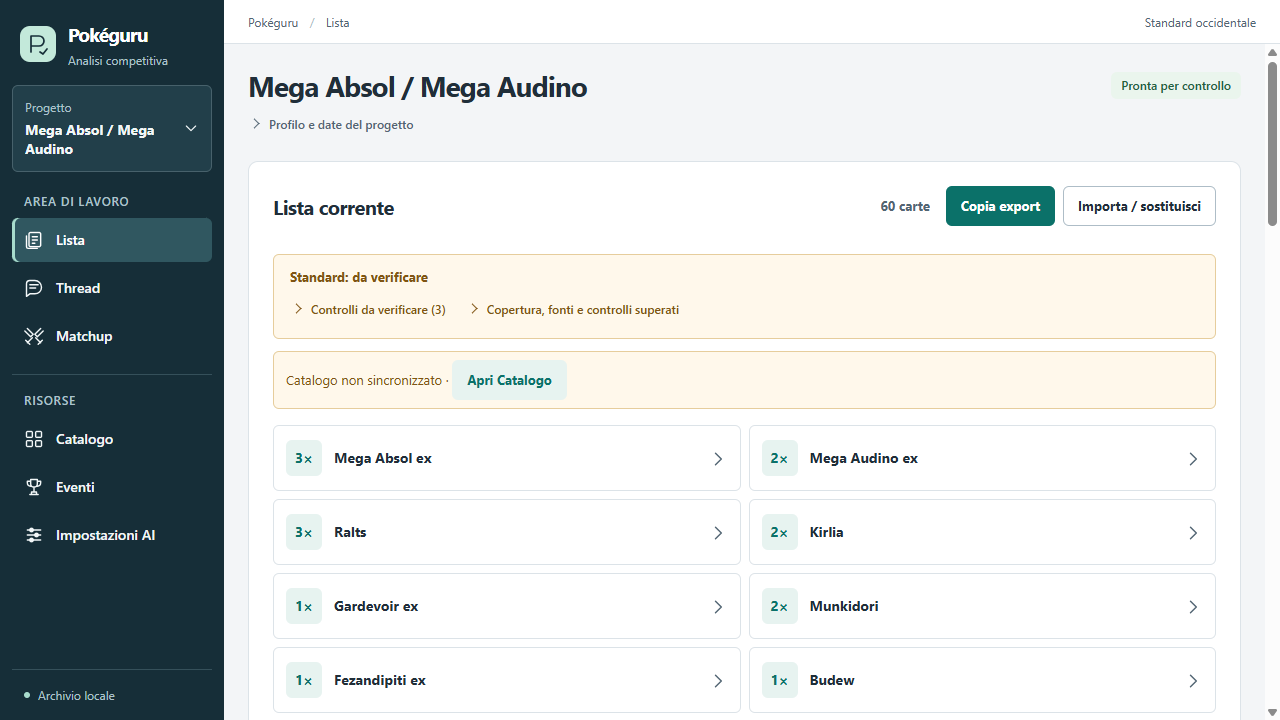
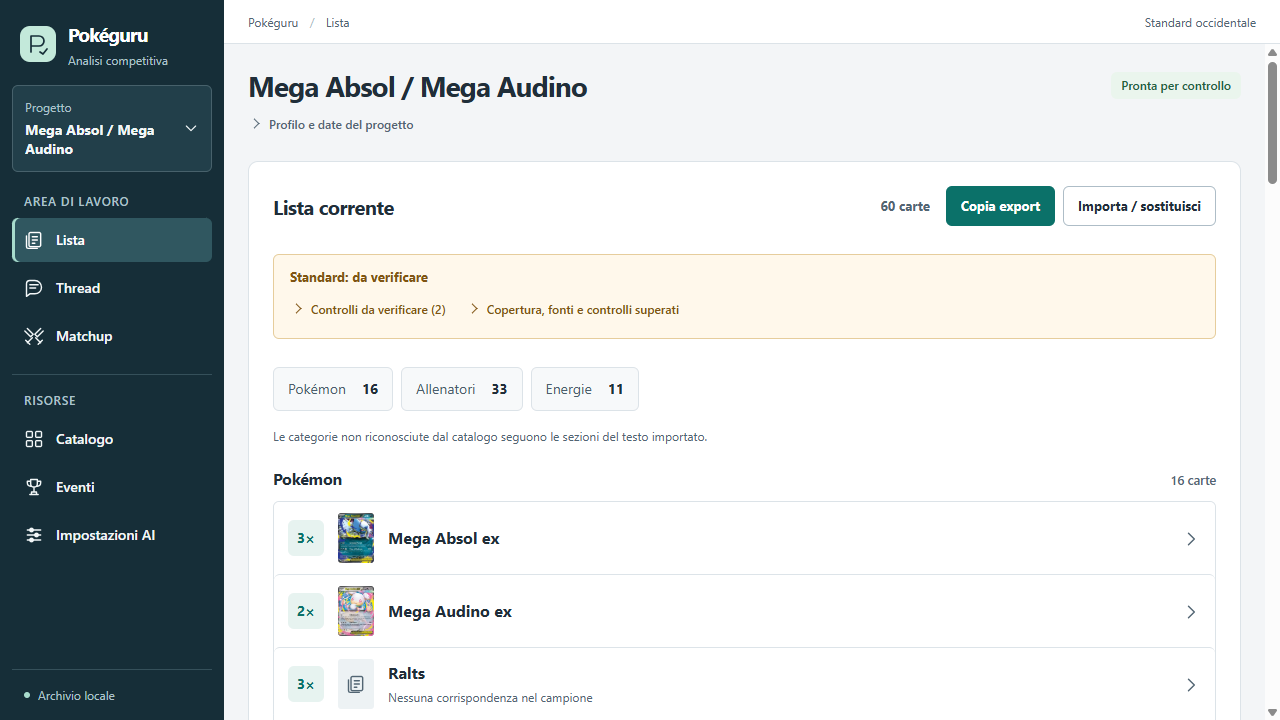
feat(ui): group deck rows by category with thumbnails

diff --git a/src/renderer/src/DeckList.tsx b/src/renderer/src/DeckList.tsx
@@ -11,6 +11,8 @@ import { evaluateStandardDeck } from '../../shared/standard-deck'
 import { BUNDLED_WESTERN_RULE_PACKAGE } from '../../shared/western-rule-package'
 import type { StandardRuleAudit } from '../../shared/standard-rule-audit'
 import { reviewSummary } from './review-summary'
+import { CardThumbnail } from './CardThumbnail'
+import { deckThumbnail, groupDeckCards } from './deck-presentation'
 
 function localDate(): string {
   const now = new Date()
@@ -68,6 +70,7 @@ export function DeckList({ projectId, baseline, onOpenCatalog, onConstrain }: {
   }, [projectId, baseline.importedAt])
 
   const cards = useMemo(() => buildDeckCards(baseline, catalog, reconciliation), [baseline, catalog, reconciliation])
+  const { groups, usesImportHeadings } = useMemo(() => groupDeckCards(cards, baseline), [cards, baseline])
   const asOf = referenceDate ?? today
   const rotation = useMemo(() => evaluateWesternRotation(baseline, catalog, asOf), [baseline, catalog, asOf])
   const construction = useMemo(() => evaluateDeckConstruction(baseline, catalog), [baseline, catalog])
@@ -78,6 +81,14 @@ export function DeckList({ projectId, baseline, onOpenCatalog, onConstrain }: {
   const promoByLine = new Map(promoAdmission.lines.map((line) => [line.lineNumber, line]))
   const standardDeck = useMemo(() => evaluateStandardDeck(baseline, catalog, asOf, ruleAudit), [baseline, catalog, asOf, ruleAudit])
   const reviewItems = useMemo(() => reviewSummary(standardDeck.toReview), [standardDeck])
+
+  function jumpToGroup(id: string): void {
+    const heading = document.getElementById(`deck-group-${id}`)
+    const main = heading?.closest('.main-content')
+    if (!heading || !main) return
+    main.scrollTop += heading.getBoundingClientRect().top - main.getBoundingClientRect().top - 20
+    heading.focus({ preventScroll: true })
+  }
 
   async function confirmIdentity(lineNumber: number, printId: string): Promise<void> {
     const line = baseline.lines.find((item) => item.lineNumber === lineNumber)
@@ -131,12 +142,21 @@ export function DeckList({ projectId, baseline, onOpenCatalog, onConstrain }: {
       </details>
     </section>
     <p className="content-note">Apri una carta per vedere stampe e righe importate.</p>
-    {loading ? <p className="content-note">Caricamento carte…</p> : <div className="deck-card-list" aria-label="Carte della lista corrente">
-      {cards.map((card) => {
+    {loading ? <p className="content-note">Caricamento carte…</p> : <div className="deck-card-groups" aria-label="Carte della lista corrente">
+      <nav className="deck-composition" aria-label="Composizione del mazzo">{groups.filter((group) => group.id !== 'unknown' || group.total > 0).map((group) =>
+        group.total > 0 ? <a key={group.id} href={`#deck-group-${group.id}`} onClick={(event) => { event.preventDefault(); jumpToGroup(group.id) }}><span>{group.name}</span><strong>{group.total}</strong></a>
+          : <span key={group.id}><span>{group.name}</span><strong>0</strong></span>
+      )}</nav>
+      {usesImportHeadings && <p className="deck-group-note">Le categorie non riconosciute dal catalogo seguono le sezioni del testo importato.</p>}
+      {groups.filter((group) => group.cards.length > 0).map((group) => <section className="deck-card-group" key={group.id} aria-labelledby={`deck-group-${group.id}`}>
+        <h3 id={`deck-group-${group.id}`} tabIndex={-1}>{group.name}<span>{group.total} {group.total === 1 ? 'carta' : 'carte'}</span></h3>
+        <div className="deck-card-list">{group.cards.map((card) => {
         const open = expanded === card.key
+        const thumbnail = deckThumbnail(card)
         return <article className="deck-card" key={card.key} data-testid={card.identityId ? `deck-card-${card.identityId}` : `deck-line-${card.lines[0].lineNumber}`}>
           <button type="button" className="deck-card-toggle" aria-expanded={open} onClick={() => setExpanded(open ? null : card.key)}>
             <span className="deck-card-quantity">{card.quantity}×</span>
+            <CardThumbnail key={thumbnail} src={thumbnail} />
             <span className="deck-card-title"><strong>{card.name}</strong>{cardStatus(card.status, catalog) && <small>{cardStatus(card.status, catalog)}</small>}</span>
             <span className="deck-card-chevron"><Icon name="chevron" /></span>
           </button>
@@ -184,7 +204,8 @@ export function DeckList({ projectId, baseline, onOpenCatalog, onConstrain }: {
               </details>}
           </div>}
         </article>
-      })}
+      })}</div>
+      </section>)}
     </div>}
     <details className="deck-technical"><summary>Rotazione, ammissione e costruzione del mazzo</summary>
     <section className="rotation-panel" aria-label="Controllo della rotazione Standard occidentale">

diff --git a/tests/deck-presentation.test.ts b/tests/deck-presentation.test.ts
@@ -1,0 +1,58 @@
+import { describe, expect, it } from 'vitest'
+import type { CatalogPrint, CatalogView } from '../src/shared/catalog'
+import { parseDeck, type DeckBaseline } from '../src/shared/deck-import'
+import { buildDeckCards } from '../src/shared/reconciliation'
+import { deckThumbnail, groupDeckCards } from '../src/renderer/src/deck-presentation'
+
+const print = (id: string, category: string, thumbnail: string | null = null): CatalogPrint => ({
+  id, setId: 'sv02', setName: 'Fixture', localId: id.split('-')[1], name: 'Iono',
+  category, rarity: null, variants: null, identityId: 'iono', identityBasis: 'trainer-text',
+  imageBase: null, thumbnail, highImageAvailable: null, sourceUpdated: null,
+  sourceUrl: 'https://api.tcgdex.net/v2/en/cards/' + id, detailAt: '2026-10-24T00:00:00Z', error: null
+})
+const catalog: CatalogView = {
+  circuit: 'WESTERN', source: 'TCGdex REST v2/en', sourceLanguage: 'en',
+  scope: { setIds: ['sv02'], names: ['Iono'] }, sets: [], syncedAt: '2026-10-24T00:00:00Z',
+  prints: [print('sv02-185', 'Trainer', 'image-a'), print('sv02-254', 'Trainer', 'image-b')]
+}
+function baseline(rawText: string): DeckBaseline {
+  return { ...parseDeck(rawText), projectId: 'p', importedAt: '2026-10-24T00:00:00Z', rawText, source: 'paste', fileName: null }
+}
+
+describe('Presentazione delle categorie della lista', () => {
+  it('conta le copie dopo la riconciliazione e preferisce il catalogo alle intestazioni errate', () => {
+    const deck = baseline('1 Sconosciuta\nPokémon: 99\n2 Iono PAL 185\nAllenatori: 0\n1 Iono PAL 254\nEnergy: 999\n4 Energia non identificata')
+    const cards = buildDeckCards(deck, catalog)
+    const result = groupDeckCards(cards, deck)
+    expect(result.groups.map((group) => [group.name, group.total])).toEqual([
+      ['Pokémon', 0], ['Allenatori', 3], ['Energie', 4], ['Da classificare', 1]
+    ])
+    expect(result.groups[1].cards).toHaveLength(1)
+    expect(result.groups.reduce((sum, group) => sum + group.total, 0)).toBe(deck.interpretedTotal)
+    expect(result.usesImportHeadings).toBe(true)
+  })
+
+  it('non deduce la categoria dal nome o da identità ambigue senza intestazioni', () => {
+    const deck = baseline('2 Mega Absol ex\n3 Basic Psychic Energy\n1 Iono ALT 12')
+    const result = groupDeckCards(buildDeckCards(deck, catalog), deck)
+    expect(result.groups.map((group) => group.total)).toEqual([0, 0, 0, 6])
+    expect(result.usesImportHeadings).toBe(false)
+    expect(buildDeckCards(deck, catalog).map(deckThumbnail)).toEqual([null, null, null])
+  })
+
+  it('lascia da classificare dati del catalogo discordanti e righe raggruppate sotto intestazioni diverse', () => {
+    const deck = baseline('Pokémon\n2 Iono PAL 185\nEnergy\n1 Iono PAL 254')
+    const cards = buildDeckCards(deck, catalog)
+    const conflicting = [{ ...cards[0], prints: [print('sv02-185', 'Trainer'), print('sv02-254', 'Energy')] }]
+    expect(groupDeckCards(conflicting, deck).groups[3].total).toBe(3)
+    expect(groupDeckCards([{ ...cards[0], prints: [] }], deck).groups[3].total).toBe(3)
+  })
+
+  it('sceglie la miniatura della stampa importata, poi una della stessa identità', () => {
+    const deck = baseline('1 Iono PAL 254')
+    const card = buildDeckCards(deck, catalog)[0]
+    expect(deckThumbnail(card)).toBe('image-b')
+    expect(deckThumbnail({ ...card, prints: [print('sv02-185', 'Trainer', 'image-a'), print('sv02-254', 'Trainer')] })).toBe('image-a')
+    expect(deckThumbnail({ ...card, prints: [] })).toBeNull()
+  })
+})

diff --git a/src/renderer/src/styles.css b/src/renderer/src/styles.css
@@ -132,13 +132,24 @@ details[open] > summary { margin-bottom: 8px; }
 .construction-status.met { color: var(--success); }
 .construction-status.problem { color: var(--danger); }
 .construction-status.indeterminate { color: var(--warning); }
-.deck-card-list { display: grid; grid-template-columns: repeat(2, minmax(0, 1fr)); gap: 8px; margin-top: 12px; }
-.deck-card { min-width: 0; border: 1px solid var(--line); border-radius: var(--radius-sm); background: var(--surface); }
-.deck-card-toggle { display: flex; align-items: center; gap: 12px; min-height: 64px; width: 100%; padding: 12px; border: 0; border-radius: var(--radius-sm); background: transparent; text-align: left; }
+.deck-composition { display: flex; flex-wrap: wrap; gap: 8px; margin: 16px 0; }
+.deck-composition > a, .deck-composition > span { display: flex; align-items: center; gap: 16px; min-height: 44px; padding: 10px 14px; border: 1px solid var(--line); border-radius: var(--radius-sm); background: var(--surface-subtle); color: var(--ink-secondary); text-decoration: none; }
+.deck-composition > a:hover { border-color: var(--accent-line); background: var(--accent-soft); color: var(--accent); }
+.deck-composition strong { color: var(--ink); font-variant-numeric: tabular-nums; }
+.deck-group-note { margin: 0 0 16px; color: var(--ink-muted); font-size: var(--text-xs); }
+.deck-card-group { margin-top: 24px; }
+.deck-card-group h3 { display: flex; align-items: baseline; justify-content: space-between; gap: 16px; margin: 0 0 12px; font-size: var(--text-md); scroll-margin-top: 20px; }
+.deck-card-group h3 > span { color: var(--ink-muted); font-size: var(--text-sm); font-weight: 500; font-variant-numeric: tabular-nums; }
+.deck-card-list { display: flex; flex-direction: column; border: 1px solid var(--line); border-radius: var(--radius-sm); }
+.deck-card { min-width: 0; background: var(--surface); border-radius: var(--radius-sm); }
+.deck-card + .deck-card { border-top: 1px solid var(--line); }
+.deck-card-toggle { display: flex; align-items: center; gap: 14px; min-height: 72px; width: 100%; padding: 10px 14px; border: 0; border-radius: var(--radius-sm); background: transparent; text-align: left; }
+.card-thumbnail { display: grid; place-items: center; flex: none; width: 36px; height: 50px; border-radius: 3px; background: var(--surface-hover); color: var(--ink-muted); overflow: hidden; }
+.card-thumbnail img { display: block; width: 100%; height: 100%; object-fit: contain; }
 .deck-card-toggle:hover, .deck-card-toggle[aria-expanded=true] { background: var(--surface-subtle); }
 .deck-card-quantity { display: grid; place-items: center; flex: none; min-width: 36px; height: 36px; background: var(--accent-soft); color: var(--accent); border-radius: var(--radius-sm); font-weight: 650; font-variant-numeric: tabular-nums; }
 .deck-card-title { display: grid; flex: 1; min-width: 0; gap: 4px; }
-.deck-card-title strong { font-size: var(--text-base); line-height: 1.4; overflow-wrap: anywhere; }
+.deck-card-title strong { font-size: var(--text-md); line-height: 1.4; overflow-wrap: anywhere; }
 .deck-card-title small { color: var(--ink-muted); }
 .deck-card-chevron { flex: none; color: var(--ink-muted); }
 .deck-card-detail { border-top: 1px solid var(--line); padding: 16px; }

diff --git a/src/renderer/src/deck-presentation.ts b/src/renderer/src/deck-presentation.ts
@@ -1,0 +1,55 @@
+import type { DeckBaseline } from '../../shared/deck-import'
+import type { DeckCardEntry } from '../../shared/reconciliation'
+
+type GroupId = 'pokemon' | 'trainer' | 'energy' | 'unknown'
+export interface DeckCardGroup {
+  id: GroupId
+  name: string
+  cards: DeckCardEntry[]
+  total: number
+}
+
+function catalogCategory(value: string | null): GroupId {
+  return value === 'Pokemon' ? 'pokemon' : value === 'Trainer' ? 'trainer' : value === 'Energy' ? 'energy' : 'unknown'
+}
+
+/** Presentation only: catalog categories take precedence over explicit import headings. */
+export function groupDeckCards(cards: DeckCardEntry[], baseline: DeckBaseline) {
+  const importedGroups = new Map<number, GroupId>()
+  let section: GroupId = 'unknown'
+  for (const line of baseline.lines) {
+    if (line.kind === 'section') {
+      const heading = line.raw.trim()
+      section = /^pok[eé]mon/i.test(heading) ? 'pokemon' : /^(?:trainer|allenatori)/i.test(heading) ? 'trainer' : /^energ/i.test(heading) ? 'energy' : 'unknown'
+    } else if (line.kind === 'card') importedGroups.set(line.lineNumber, section)
+  }
+  const groups: DeckCardGroup[] = [
+    { id: 'pokemon', name: 'Pokémon', cards: [], total: 0 },
+    { id: 'trainer', name: 'Allenatori', cards: [], total: 0 },
+    { id: 'energy', name: 'Energie', cards: [], total: 0 },
+    { id: 'unknown', name: 'Da classificare', cards: [], total: 0 }
+  ]
+  let usesImportHeadings = false
+  for (const card of cards) {
+    const categories = new Set(card.prints.map((print) => catalogCategory(print.category)))
+    let category: GroupId = 'unknown'
+    if (categories.size === 1 && !categories.has('unknown')) category = [...categories][0]
+    // Conflicting catalog data must remain unknown, even when the import has a heading.
+    else if (categories.size === 0 || (categories.size === 1 && categories.has('unknown'))) {
+      const headings = new Set(card.lines.map((line) => importedGroups.get(line.lineNumber) ?? 'unknown'))
+      if (headings.size === 1 && !headings.has('unknown')) {
+        category = [...headings][0]
+        usesImportHeadings = true
+      }
+    }
+    const group = groups.find((item) => item.id === category)!
+    group.cards.push(card)
+    group.total += card.quantity
+  }
+  return { groups, usesImportHeadings }
+}
+
+export function deckThumbnail(card: DeckCardEntry): string | null {
+  const imported = card.prints.find((print) => card.importedPrintIds.includes(print.id) && print.thumbnail)
+  return imported?.thumbnail ?? card.prints.find((print) => print.thumbnail)?.thumbnail ?? null
+}

diff --git a/src/renderer/src/workspace.css b/src/renderer/src/workspace.css
@@ -18,6 +18,7 @@
 .project-switcher:hover, .project-switcher[aria-expanded=true] { background: var(--rail-selected); }
 .project-switcher-label { display: grid; gap: 4px; flex: 1; min-width: 0; }
 .project-switcher-label small { color: var(--rail-muted); }
+.project-switcher:hover .project-switcher-label small, .project-switcher[aria-expanded=true] .project-switcher-label small { color: var(--rail-text); }
 .project-switcher-label strong { display: -webkit-box; overflow: hidden; -webkit-box-orient: vertical; -webkit-line-clamp: 2; font-size: var(--text-base); line-height: 1.4; overflow-wrap: anywhere; }
 .project-switcher-icon { display: none; }
 .project-switcher-chevron { display: flex; flex: none; }
@@ -63,7 +64,7 @@
 /* Adapt components to their available content width, not the whole screen. */
 @container workspace (max-width: 700px) {
   .baseline-panel, .import-panel, .constraints-panel, .thread-detail, .meta-analysis, .settings-panel { padding: 20px; }
-  .deck-card-list, .comparison-lists, .catalog-layout, .tournament-layout, .tournament-cards { grid-template-columns: minmax(0, 1fr); }
+  .comparison-lists, .catalog-layout, .tournament-layout, .tournament-cards { grid-template-columns: minmax(0, 1fr); }
   .catalog-list, .tournament-players { max-height: 250px; }
   .detail-headline { flex-wrap: wrap; }
   .detail-headline h1 { font-size: var(--text-xl); }

diff --git a/src/renderer/src/CardThumbnail.tsx b/src/renderer/src/CardThumbnail.tsx
@@ -1,0 +1,11 @@
+import { useState } from 'react'
+import { Icon } from './Icon'
+
+/** The adjacent card name labels the row; artwork is decorative, with a stable fallback. */
+export function CardThumbnail({ src }: { src: string | null }) {
+  const [failed, setFailed] = useState(false)
+  const available = src && !failed
+  return <span className="card-thumbnail" aria-hidden="true" title={available ? 'Immagine della carta' : 'Miniatura non disponibile'}>
+    {available ? <img src={src} alt="" loading="lazy" decoding="async" onError={() => setFailed(true)} /> : <Icon name="deck" />}
+  </span>
+}

diff --git a/docs/DESIGN_SYSTEM.md b/docs/DESIGN_SYSTEM.md
@@ -15,7 +15,7 @@ L'audit comprende codice e avvio della versione integrata, schermate di Lista, c
 | Numeri e glifi Unicode nella navigazione | Le aree non hanno una grammatica visiva comune | Piccolo set SVG locale, tratto e dimensioni uniformi, nomi accessibili anche nella barra compatta |
 | Ambra sia per selezione sia per avvisi | La selezione può sembrare una condizione da correggere | Petrolio per navigazione/azioni; ambra per incertezza; rosso per blocchi; viola per proposta |
 | Titoli, origine dell'import e note occupano il primo schermo | Le carte e il piano tattico arrivano troppo tardi | Metadati import sotto le carte; metagame apribile; rimossi sottotitoli ridondanti |
-| Carta con nome lungo troncato in due colonne strette | Serve aprire la riga per riconoscere una carta | Nomi a capo, griglia guidata dalla larghezza effettiva del contenuto, una colonna quando serve |
+| Carta con nome lungo troncato in due colonne strette | Serve aprire la riga per riconoscere una carta | APP-062: righe intere con miniature, nomi a capo a 16 px e categorie con conteggi |
 | Ogni informazione in un ulteriore riquadro verde | Controlli, proposta, conversazione e spiegazioni competono per attenzione | Superfici neutre, bordi strutturali e separatori; tinta solo dove comunica uno stato |
 | Principale e candidata troppo simili | Il cambiamento è difficile da distinguere a colpo d'occhio | Etichette esplicite, proposta viola, differenze con segno e conteggi, conferma dell'intera lista |
 | Guide e fonti estese prima della discussione | Lo studio del piano richiede scorrimento eccessivo | Strategia prima, limiti visibili, carte osservate e meccaniche in dettagli apribili |
@@ -28,6 +28,7 @@ L'audit comprende codice e avvio della versione integrata, schermate di Lista, c
 - **Navigazione:** selettore del progetto attivo, tre aree del mazzo, risorse globali. Sidebar desktop di **224 px**. Il selettore apre ricerca, elenco scorrevole e “Nuovo progetto”; a finestra stretta si compatta in un pulsante. Escape chiude e restituisce il focus; frecce e Invio consentono di scegliere. Decisione approvata in APP-061.
 - **Lavoro:** contenuto centrale fluido con scorrimento indipendente. La larghezza delle singole componenti risponde allo spazio effettivo tramite container query.
 - **Vista Lista:** una sola lista nell'area di lavoro disponibile, senza riepilogo laterale o dock; decisione confermata dall'utente in APP-060.
+- **Carte della Lista (APP-062):** righe di almeno 72 px, miniatura 36×50 px, quantità e nome a 16 px. Sezioni Pokémon/Allenatori/Energie con conteggi delle copie; riepilogo cliccabile per raggiungerle. Categoria dal catalogo o dalle intestazioni esplicite dell'import, con nota; altrimenti “Da classificare”. Miniature esistenti della stessa identità, segnaposto stabile quando assenti o non leggibili.
 - **Lista persistente in Thread e Matchup:** **384 px fissi** sopra 1240 px di finestra. Quantità, sezioni e stato restano leggibili; nomi lunghi vanno a capo. Lo stato “Pronta per controllo” è neutro: non equivale a Standard verificato.
 - **Finestra stretta:** fino a 1240 px, navigazione a icone e lista in dock inferiore di 220 px solo in Thread e Matchup, sempre parte della griglia. A 640 px la navigazione diventa orizzontale. Nessun pannello copre il contenuto.
 - **Livelli informativi:** decisione e blocchi → dettaglio operativo → provenienza e diagnostica. I dati non vengono eliminati per rendere la schermata più breve.
@@ -78,7 +79,7 @@ Esiti dei comandi e limiti effettivi sono registrati in **APP-059 in BACKLOG.md*
 
 Schermate registrate: [Lista 1440](design-review/lista-1440.png), [Lista 1280](design-review/lista-1280.png), [Thread](design-review/thread-1440.png), [Matchup 1280](design-review/matchup-1280.png), [Lista a 640](design-review/lista-640.png), [dock Thread a 640](design-review/thread-640.png), [Catalogo](design-review/catalogo-1440.png), [Eventi](design-review/eventi-1280.png), [conferma di adozione](design-review/adozione.png).
 
-1. **Lista:** leggere carte con nomi lunghi, aprire una carta, verificare lo stato Standard e provare “Importa / sostituisci”.
+1. **Lista:** controllare conteggi e miniature, usare il riepilogo per raggiungere Allenatori o Energie, aprire una carta, verificare lo stato Standard e provare “Importa / sostituisci”. Le schermate Lista APP-062 usano il campione reale TCGdex nel profilo demo; non tutte le carte della lista hanno una miniatura disponibile.
 2. **Thread → Piano più rapido:** confrontare principale e proposta; scorrere le due liste e il pannello persistente in modo indipendente; aprire e annullare l'adozione.
 3. **Matchup → cercare “fixture UI”:** leggere la guida, aprire una revisione precedente e le opzioni AI; tenere la lista principale a vista.
 4. **Catalogo / Eventi / AI:** confrontare filtri, pulsanti, dettagli apribili e messaggi di stato.

diff --git a/docs/BACKLOG.md b/docs/BACKLOG.md
@@ -68,6 +68,7 @@ Dimensioni relative: **S** contenuto, **M** medio, **L** epica da scomporre prim
 | **APP-059** | Design system e rifinitura completa dell’interfaccia desktop | UI/UX | R-01–R-13 / qualità pre-I4 | P0 / M | APP-051–058; richiesta utente 24-10-2026 | Done |
 | **APP-060** | Eliminare la lista duplicata dalla vista Lista | UI/UX | R-03, R-08, R-10 / qualità pre-I4 | P0 / S | APP-059; conferma utente durante la revisione condivisa | Done |
 | **APP-061** | Selettore progetti con ricerca e creazione | UI/UX | R-03 / qualità pre-I4 | P0 / S | APP-060; selettore approvato dall'utente | Done |
+| **APP-062** | Lista per categorie con conteggi e miniature | UI/UX | R-02, R-03, R-04 / qualità pre-I4 | P0 / S | APP-061; preferenza utente confermata | Done |
 
 ## Task dettagliati I0–I2
 
@@ -531,6 +532,15 @@ Dimensioni relative: **S** contenuto, **M** medio, **L** epica da scomporre prim
 - **Verifica prevista:** build, percorso Electron workspace e smoke offline di creazione/cambio/riapertura; ricerca, Escape e focus, 1440×900, 1280×720 e vista compatta.
 - **Risultato:** selettore in alto con nome del progetto su due righe, menu ricercabile e “Nuovo progetto” nello stesso punto. Versione compatta con pulsante dedicato; nomi completi nel menu, attivo indicato anche con testo, elenco scorrevole e altezza limitata alla finestra. Chiusura con Escape/clic esterno, focus iniziale sulla ricerca, frecce e Invio per scegliere. Popover nativo Electron, senza dipendenze aggiuntive; persistenza e selezione dei dati invariate.
 - **Verifiche Windows:** build/typecheck, workspace Electron e smoke offline passati. Geometria e audit contrasto del menu a 1440×900, 1280×720 e 640×580; Escape restituisce il focus, ricerca senza distinzione maiuscole/minuscole, nessun risultato, selezione da tastiera, creazione del secondo progetto, import, isolamento e riapertura verificati. Schermate ispezionate; limiti Linux/lettore di schermo/scala di APP-059 restano validi. Nessun merge o release.
+
+### APP-062 — Righe, miniature e categorie
+
+- **Autorizzazione:** l'utente preferisce righe con piccola miniatura, divise in Pokémon, Allenatori ed Energie con conteggi. Task Ready circoscritto e avviato sul ramo del design system.
+- **Accettazione:** righe leggibili con quantità, miniatura disponibile nel catalogo e nome; tre categorie con totali delle copie; categorie ignote esplicite, nessuna immagine associata a identità ambigue; dettaglio e riconciliazione conservati.
+- **Verifica prevista:** build, verifica dei conteggi e delle categorie con fonti conflittuali, Electron con/senza catalogo e immagini, dettaglio e riconciliazione, layout desktop e compatto.
+- **Risultato:** Lista a righe con quantità, miniatura 36×50 px e nome a 16 px; sezioni Pokémon, Allenatori ed Energie con totali di copie e riepilogo cliccabile. I conteggi usano le carte riconciliate; categorie dal catalogo, in mancanza intestazioni esplicite dell'import con nota, altrimenti “Da classificare”. Immagini dalla stampa importata o dalla stessa identità, mai da semplici nomi ambigui; segnaposto stabile per miniature assenti o non leggibili. Nessuna modifica al modello, ai validatori o alle integrazioni.
+- **Verifiche Windows:** build/typecheck, quattro test mirati su conteggi/categorie conflittuali/scelta immagini, Electron riconciliazione/vincoli/isolamento e workspace passati. Layout 1440×900, 1280×720, 1241/1240×720, 1024×768 e 640×720; conteggi 16/33/11 con catalogo vuoto, navigazione tra sezioni e dettagli verificati. Corretto il salto alle categorie perché scorra soltanto l'area di lavoro; corretto un contrasto insufficiente dell'etichetta progetto nel selettore aperto. Immagine valida e immagine non leggibile provate con fixture; campione reale TCGdex acquisito nel solo profilo demo (41 stampe, 41 miniature), schermate Lista ispezionate a 1440/1280/640.
+- **Limiti:** il campione non copre tutte le carte della demo; quelle senza identità/immagine usano il segnaposto. Categorie dall'import non attestano legalità. Nessuna generazione AI o nuova prova Linux; nessun merge o release.
 
 ## Regola per i blocchi
 

diff --git a/docs/DECISIONS.md b/docs/DECISIONS.md
@@ -71,6 +71,12 @@ Durante la revisione condivisa l'utente riconosce il riepilogo destro come dupli
 
 L'utente conferma che è sufficiente un selettore. La sidebar mostra il solo progetto attivo; il menu contiene ricerca, tutti i progetti e “Nuovo progetto”. Il menu non occupa spazio quando è chiuso; a finestra stretta si apre da un pulsante dedicato. Popover nativo con chiusura esterna/Escape, focus sulla ricerca e frecce/Invio; nessuna nuova dipendenza o modifica al database.
 
+### T-51 — Righe con miniature e categorie (APP-062)
+
+L'utente sceglie righe con piccole miniature e sezioni Pokémon, Allenatori ed Energie con conteggi. La Lista usa righe intere, miniatura 36×50 px e nome a 16 px; il riepilogo di composizione porta alla categoria scorrendo soltanto il contenuto. I conteggi sono copie effettive delle carte già riconciliate, senza reinterpretare i totali scritti nelle intestazioni.
+
+La categoria del catalogo ha precedenza; in assenza si usano soltanto sezioni esplicite del testo importato, con nota. Categorie ignote o discordanti restano “Da classificare”. La miniatura privilegia una stampa importata, poi una della stessa identità; nessuna inferenza dall'omonimia. Immagine assente/non leggibile: segnaposto neutro delle stesse dimensioni. Nessuna modifica al catalogo di produzione o alle integrazioni; la demo usa il campione acquisito attraverso il connettore esistente.
+
 ## Registro delle fonti primarie
 
 | ID | Fonte consultata il 23-10-2026 | Conclusione utilizzabile | Limite e verifica futura |

diff --git a/README.md b/README.md
@@ -32,6 +32,8 @@ La revisione condivisa APP-060 elimina il riepilogo duplicato nella vista **List
 
 APP-061 sostituisce l'elenco permanente dei progetti con un **selettore in alto**: clic sul progetto attivo per cercare gli altri o crearne uno nuovo. Nella barra compatta il selettore usa un pulsante dedicato.
 
+APP-062 organizza la **Lista** in righe con miniature e sezioni **Pokémon, Allenatori ed Energie**, con conteggi delle copie e riepilogo cliccabile. Le immagini disponibili provengono dal catalogo locale; quelle mancanti hanno un segnaposto. Le categorie seguono il catalogo o, con nota, le intestazioni dell'import; i casi ignoti restano “Da classificare”.
+
 Il ramo `task/production-design-system` rifinisce tutte le viste dell'app con token condivisi, tipografia sans, icone SVG, controlli leggibili e stati coerenti. La sidebar desktop è larga **224 px**; la lista principale rimane fissa a **384 px**, con dock di 220 px sotto la soglia di 1240 px. Il primo progetto si crea nell'area centrale. Metadati e metodo precedono meno spesso carte, differenze e strategia; focus e scorrimento sono verificati anche da tastiera.
 
 L'[audit e le regole del design system](docs/DESIGN_SYSTEM.md) descrivono le scelte e i percorsi di prova. `node tests/workspace-ui-live.mjs --keep-profile`, dopo la build, conserva e stampa un profilo dimostrativo isolato. La guida e le liste di prova sono esempi UI, non nuove generazioni Codex. La rifinitura non è ancora integrata in `dev` né nella release v0.1.0.

diff --git a/docs/PLAN.md b/docs/PLAN.md
@@ -96,6 +96,8 @@ Al termine di ciascun incremento, mostrare il percorso utente, registrare eviden
 
 ## Ripresa
 
+- **APP-062 completato:** righe con miniature e categorie Pokémon/Allenatori/Energie con conteggi, dati mancanti espliciti. Build, conteggi, riconciliazione, immagini e layout verificati su Windows; campione catalogo acquisito nel solo profilo demo per la prova con miniature reali. Prossimo punto proposto nella revisione condivisa: intestazione e stato della Lista, da discutere prima di modificare.
+
 - **APP-061 completato:** selettore progetti approvato, con ricerca e creazione nello stesso menu; verifiche Windows di tastiera, responsive e isolamento passate. Prossimo punto della revisione condivisa: struttura della Lista e rappresentazione delle carte; proposte da discutere prima di applicarle.
 
 - **APP-060 completato:** prima decisione della revisione condivisa applicata: Lista usa l'area disponibile senza riepilogo duplicato; pannello e dock persistono in Thread e Matchup. Build e percorso Electron workspace Windows passati, schermate Lista 1440×900 e 1280×720 ispezionate. Prossimo punto da discutere: progetti e sidebar. Le altre scelte si analizzano con l'utente una alla volta.
